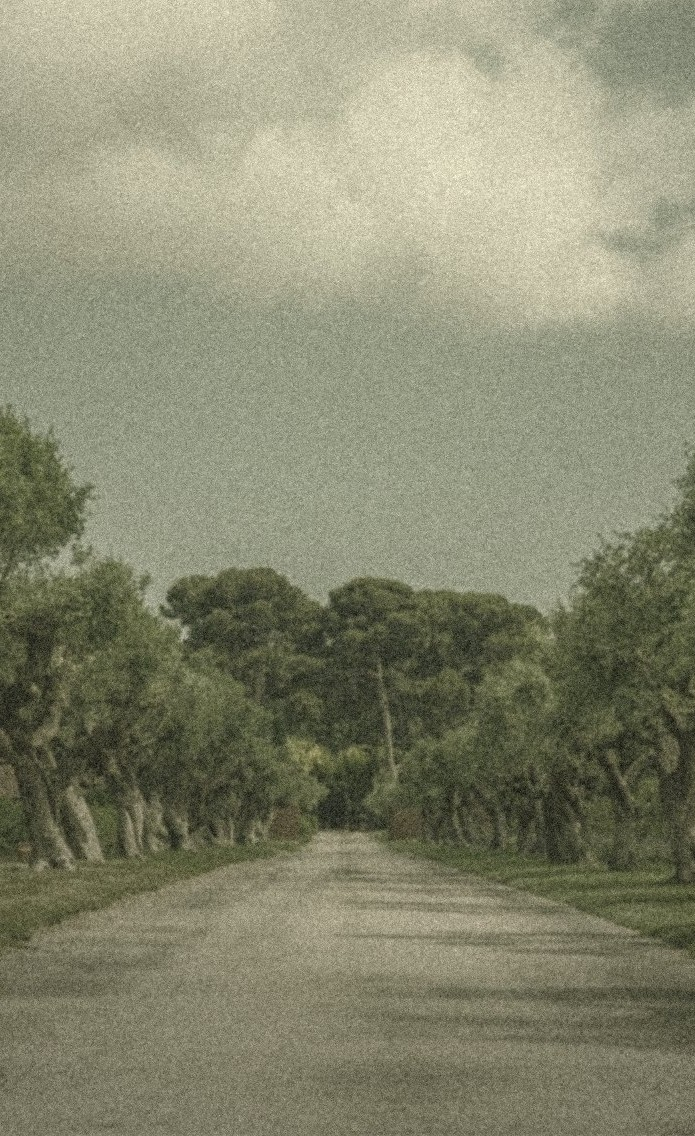
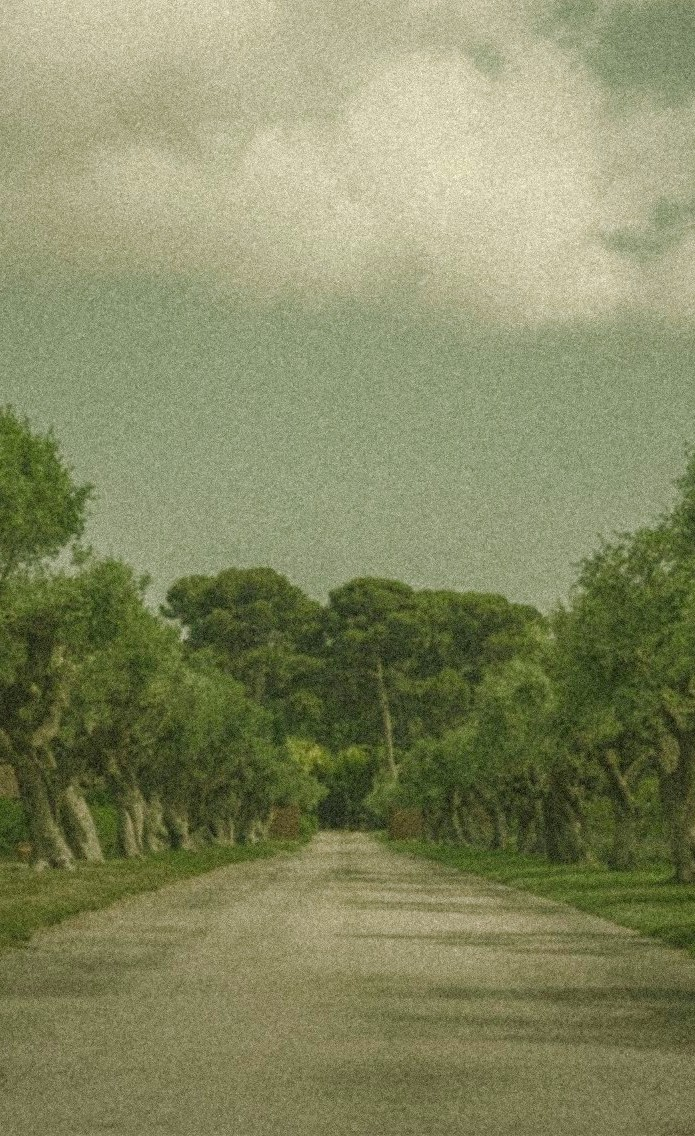
Hero: more saturation to match other photos
Claude-Session: https://claude.ai/code/session_01NVvXN2ZfjubBKEGKyT8HuS

diff --git a/index.html b/index.html
@@ -149,8 +149,8 @@ footer p{font-size:13.33px}
 
 <header class="hero" id="inicio">
   <picture>
-    <source media="(max-width:759px)" srcset="img/hero-movil.jpg">
-    <img src="img/hero.jpg" alt="Camino entre olivos en Mas La Boella" fetchpriority="high">
+    <source media="(max-width:759px)" srcset="img/hero-movil.jpg?v=2">
+    <img src="img/hero.jpg?v=2" alt="Camino entre olivos en Mas La Boella" fetchpriority="high">
   </picture>
   <div class="hero-in">
     <svg class="mm" role="img" aria-label="Monograma M y M"><use href="#mm"/></svg>
